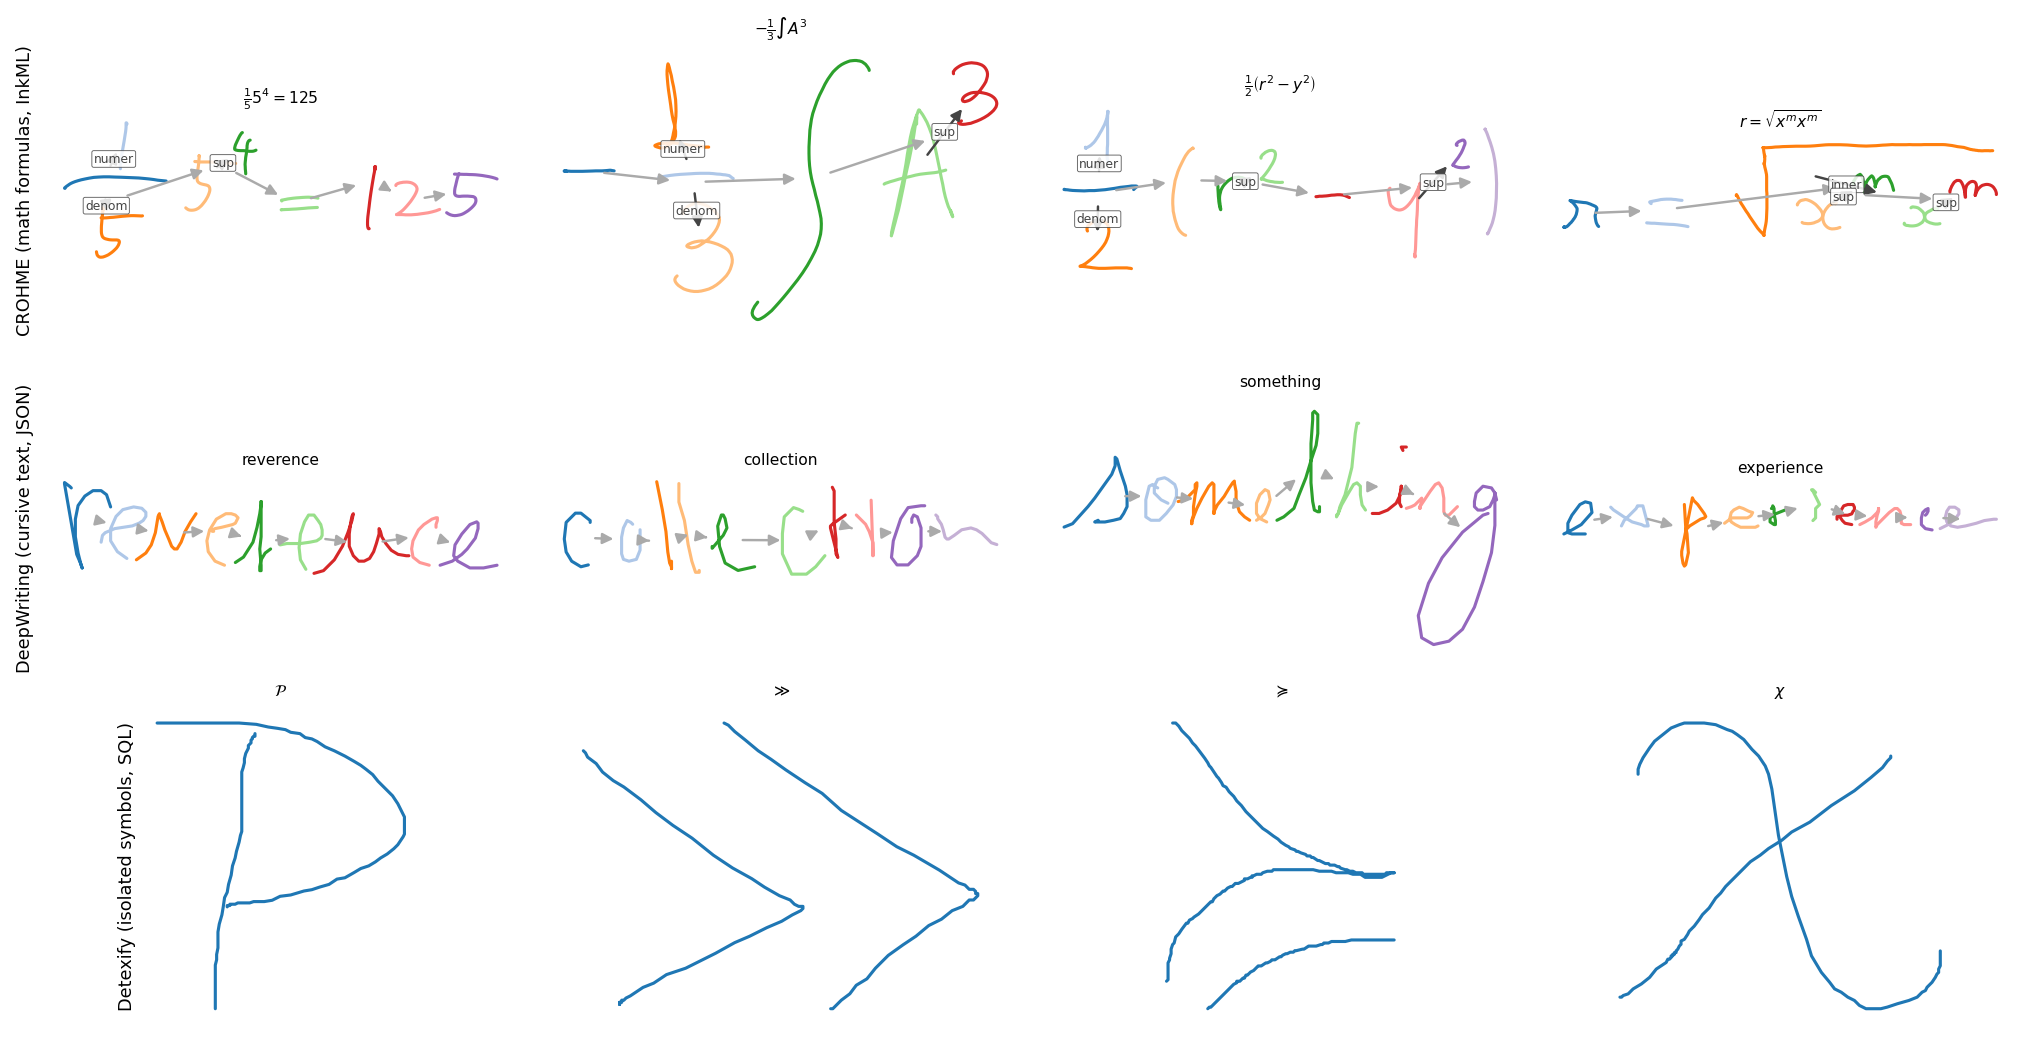
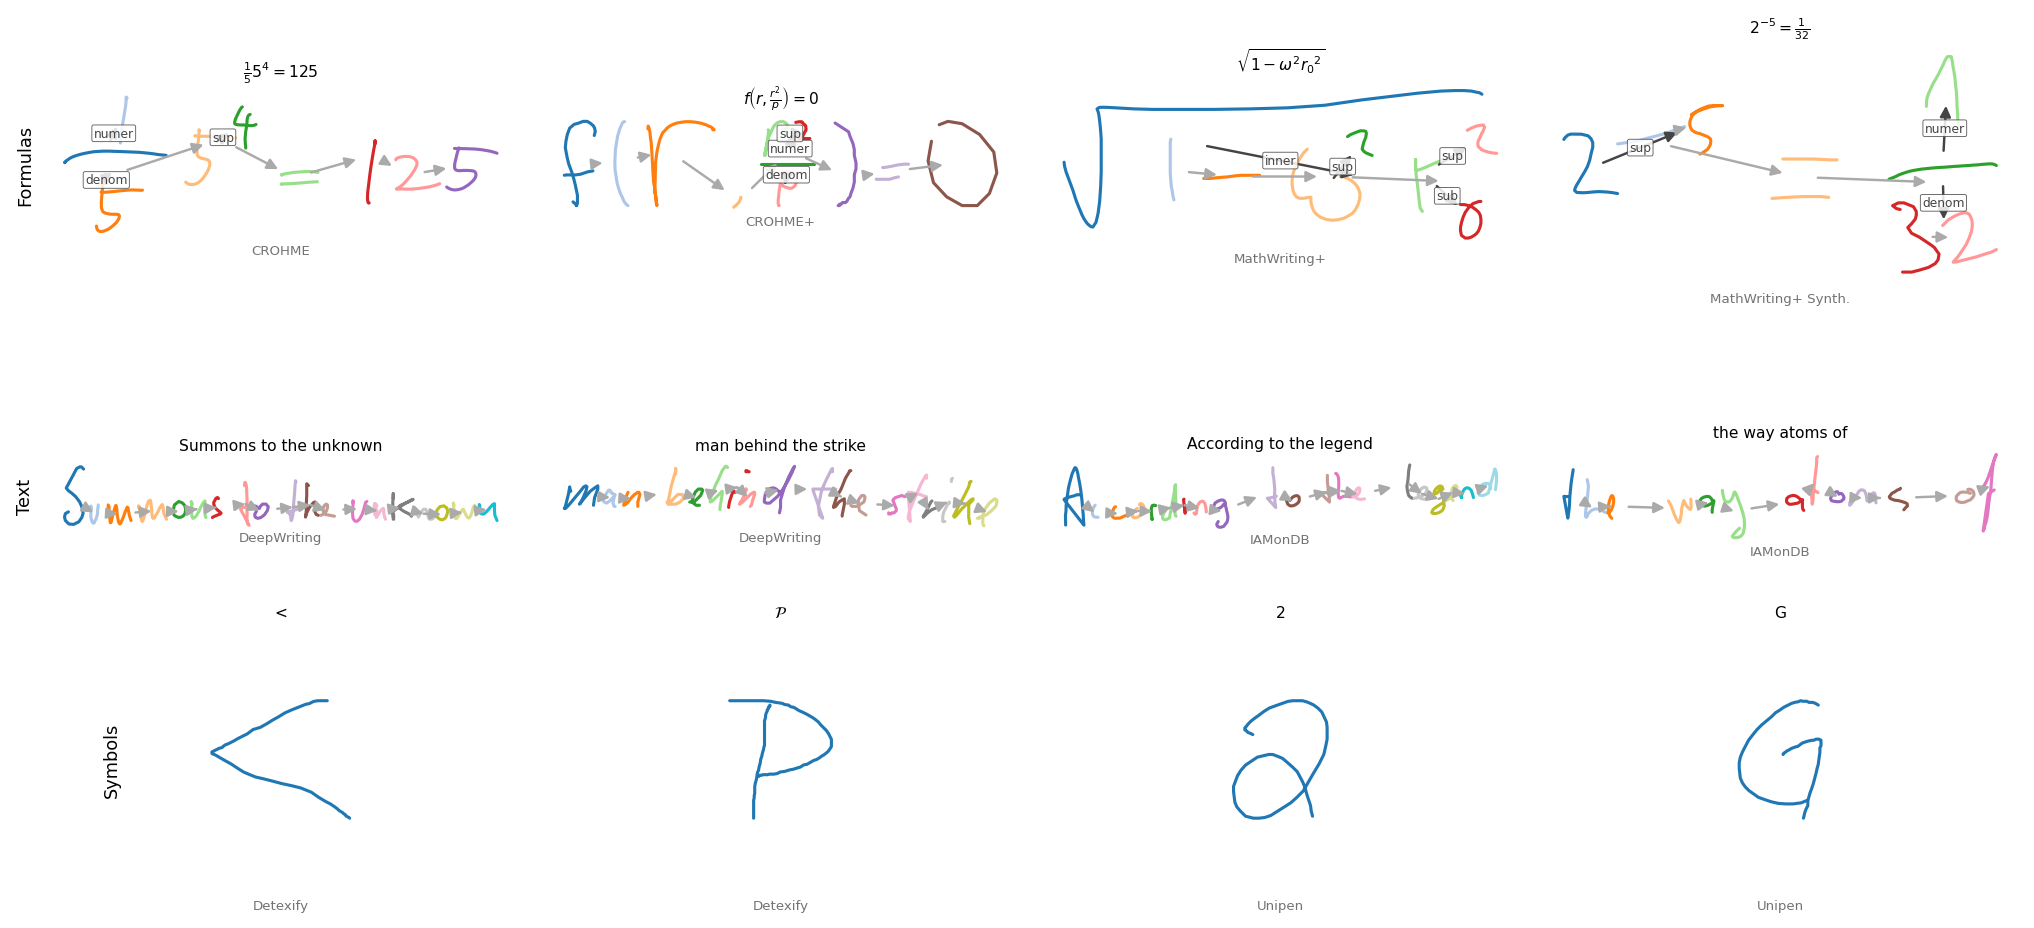
Redesign showcase: rows by content type, 8 datasets, natural symbol scale

diff --git a/scripts/make_showcase.py b/scripts/make_showcase.py
@@ -1,11 +1,14 @@
 """
 Generate the InkTree showcase figure: segmentation colors + relation arrows
-across three very different source datasets (CROHME formulas, DeepWriting
-sentences, Detexify symbols) to illustrate format generality.
+across content types and source datasets, to illustrate format generality.
+
+Row 1: math formulas  (CROHME, CROHME+, MathWriting+, MathWriting+ Synthetic)
+Row 2: text sentences (DeepWriting, IAMonDB)
+Row 3: symbols        (Detexify, Unipen)
 
 Outputs:
     assets/showcase.png        (for README, committed)
-    paper/fig/showcase.pdf     (for the paper)
+    paper/figures/showcase.pdf (for the paper)
 
 Usage (from project root):
     python scripts/make_showcase.py
@@ -25,14 +28,7 @@ import matplotlib.pyplot as plt
 
 from inktree.decode import decode_graph_sample
 from scripts.review_inktree import plot_sample_relations, effective_label, INKTREE_DIR
-
-
-def clean_detexify_label(key: str) -> str:
-    """'amssymb-OT1-_gg' → '\\gg', 'latex2e-OT1-[' → '['."""
-    tail = key.rsplit("-", 1)[-1]
-    label = "\\" + tail[1:] if tail.startswith("_") else tail
-    # text-mode commands mathtext cannot render → math-mode equivalent
-    return {"\\textchi": "\\chi"}.get(label, label)
+from datasets.json_loader import get_json_files, _sample_to_row_node
 
 ASSETS_OUT = ROOT / "assets" / "showcase.png"
 PAPER_OUT = ROOT / "paper" / "figures" / "showcase.pdf"
@@ -40,17 +36,63 @@ PAPER_OUT = ROOT / "paper" / "figures" / "showcase.pdf"
 N_COLS = 4
 
 
-def load_samples(filename: str, indices: list[int]):
-    """Load specific sample indices (sorted single pass) from a JSONL.gz file."""
-    wanted = set(indices)
-    found = {}
+def clean_detexify_label(key: str) -> str:
+    """'amssymb-OT1-_gg' → '\\gg', 'latex2e-OT1-[' → '['."""
+    tail = key.rsplit("-", 1)[-1]
+    label = "\\" + tail[1:] if tail.startswith("_") else tail
+    # text-mode commands mathtext cannot render → math-mode equivalent
+    return {"\\textchi": "\\chi", "\\textless": "<", "\\textgreater": ">"}.get(label, label)
+
+
+def recover_sentences(root_dir: Path, indices: set[int]) -> dict[int, str]:
+    """Reconstruct sentence text (with spaces) from the source JSON word labels.
+
+    The converted DeepWriting/IAMonDB files have empty top-level labels and no
+    word boundaries (chars are flattened into one row), so joining sym labels
+    loses the spaces. The source `wholeword_segments[].ocr_label` entries are
+    per word; walking the files in loader order recovers the i-th sentence.
+    """
+    sentences: dict[int, str] = {}
+    i = 0
+    for json_path in get_json_files(root_dir):
+        try:
+            obj = json.load(open(json_path, encoding="utf-8"))
+        except Exception:
+            continue
+        keys = sorted(
+            [k for k in obj if k.startswith("sample")],
+            key=lambda k: int(k[6:]) if k[6:].isdigit() else 0,
+        )
+        for key in keys:
+            sample = obj[key]
+            if not isinstance(sample, dict):
+                continue
+            try:
+                row = _sample_to_row_node(sample)
+            except Exception:
+                row = None
+            if row is None:
+                continue
+            if i in indices:
+                words = [
+                    w.get("ocr_label", "") or ""
+                    for w in sample.get("wholeword_segments", [])
+                    if isinstance(w, dict)
+                ]
+                sentences[i] = " ".join(w for w in words if w).strip()
+                if len(sentences) == len(indices):
+                    return sentences
+            i += 1
+    return sentences
+
+
+def load_sample(filename: str, index: int):
+    """Load one sample by line index from a JSONL.gz file."""
     with gzip.open(INKTREE_DIR / filename, "rt", encoding="utf-8") as f:
         for i, line in enumerate(f):
-            if i in wanted:
-                found[i] = json.loads(line)
-                if len(found) == len(wanted):
-                    break
-    return [found[i] for i in indices]
+            if i == index:
+                return json.loads(line)
+    raise IndexError(f"{filename}: index {index} out of range")
 
 
 def find_structured_crohme(filename: str, n: int, max_strokes: int = 14) -> list[int]:
@@ -66,45 +108,55 @@ def find_structured_crohme(filename: str, n: int, max_strokes: int = 14) -> list
     return picked
 
 
-def find_short_samples(filename: str, n: int, min_strokes: int, max_strokes: int,
-                       max_chars: int = None) -> list[int]:
-    """Pick samples within a stroke-count range (keeps panels readable).
-    max_chars additionally limits the symbol count (e.g. single words)."""
-    picked = []
-    with gzip.open(INKTREE_DIR / filename, "rt", encoding="utf-8") as f:
-        for i, line in enumerate(f):
-            if not (min_strokes <= line.count('"x"') <= max_strokes):
-                continue
-            if max_chars is not None and line.count('"label"') - 1 > max_chars:
-                continue
-            picked.append(i)
-            if len(picked) == n:
-                break
-    return picked
-
-
 def main():
+    # Sentence labels recovered from the source JSON (converted files lack them)
+    dw_sent = recover_sentences(ROOT / "data" / "Deepwriting Dataset", {0, 50})
+    iam_sent = recover_sentences(ROOT / "data" / "Iamondb Dataset", {65, 98})
+
+    # Panel spec: (dataset tag, filename, sample index, label override/cleaner, axis margin)
+    # Formula indices were hand-picked from find_structured_crohme() candidates.
     rows = [
-        ("CROHME (math formulas, InkML)", "crohme_2023test.inktree.jsonl.gz",
-         find_structured_crohme("crohme_2023test.inktree.jsonl.gz", N_COLS), None),
-        # hand-picked single-word samples (multi-word labels concatenate without
-        # spaces because the converted files have no top-level label)
-        ("DeepWriting (cursive text, JSON)", "deepwriting.inktree.jsonl.gz",
-         [11, 209, 846, 1441], None),
-        ("Detexify (isolated symbols, SQL)", "detexify.inktree.jsonl.gz",
-         find_short_samples("detexify.inktree.jsonl.gz", N_COLS, 2, 4), clean_detexify_label),
+        ("Formulas", [
+            ("CROHME", "crohme_2023test.inktree.jsonl.gz", 65, None),
+            ("CROHME+", "crohmeplus_synthetic.inktree.jsonl.gz", 249, None),
+            ("MathWriting+", "mwplus_test.inktree.jsonl.gz", 15, None),
+            ("MathWriting+ Synth.", "mwplus_synthetic.inktree.jsonl.gz", 99, None),
+        ], 0.05),
+        ("Text", [
+            ("DeepWriting", "deepwriting.inktree.jsonl.gz", 0, dw_sent.get(0)),
+            ("DeepWriting", "deepwriting.inktree.jsonl.gz", 50, dw_sent.get(50)),
+            ("IAMonDB", "iamondb.inktree.jsonl.gz", 65, iam_sent.get(65)),
+            ("IAMonDB", "iamondb.inktree.jsonl.gz", 98, iam_sent.get(98)),
+        ], 0.05),
+        ("Symbols", [
+            ("Detexify", "detexify.inktree.jsonl.gz", 0, clean_detexify_label),
+            ("Detexify", "detexify.inktree.jsonl.gz", 1, clean_detexify_label),
+            ("Unipen", "unipen.inktree.jsonl.gz", 1, None),
+            ("Unipen", "unipen.inktree.jsonl.gz", 4801, None),
+        ], 0.6),  # extra margin so single symbols don't fill the panel
     ]
 
-    fig, axes = plt.subplots(len(rows), N_COLS, figsize=(N_COLS * 3.2, len(rows) * 2.2))
+    fig, axes = plt.subplots(
+        len(rows), N_COLS,
+        figsize=(N_COLS * 3.2, 6.2),
+        gridspec_kw={"height_ratios": [1.3, 0.85, 0.85]},
+    )
 
-    for r, (row_title, filename, indices, label_fn) in enumerate(rows):
-        samples = load_samples(filename, indices)
-        for c, sample in enumerate(samples):
+    for r, (row_title, panels, margin) in enumerate(rows):
+        for c, (tag, filename, index, label_spec) in enumerate(panels):
+            ax = axes[r][c]
+            sample = load_sample(filename, index)
             graph, label = decode_graph_sample(sample)
-            label = effective_label(graph, label)
-            if label_fn is not None:
-                label = label_fn(label)
-            plot_sample_relations(graph, label, axes[r][c], fontsize=7)
+            if callable(label_spec):
+                label = label_spec(effective_label(graph, label))
+            elif label_spec:
+                label = label_spec
+            else:
+                label = effective_label(graph, label)
+            plot_sample_relations(graph, label, ax, fontsize=7)
+            ax.margins(margin)
+            ax.text(0.5, -0.04, tag, transform=ax.transAxes,
+                    fontsize=6, color="0.45", ha="center", va="top")
         axes[r][0].set_ylabel(row_title, fontsize=8)
         axes[r][0].axis("on")
         axes[r][0].set_xticks([])

diff --git a/README.md b/README.md
@@ -6,7 +6,7 @@ Reference implementation for the ICDAR 2026 paper. InkTree is a lightweight, ML-
 
 ![InkTree showcase: segmentation and relations across heterogeneous sources](assets/showcase.png)
 
-*Converted InkTree samples from three structurally different source formats — CROHME formulas (InkML), DeepWriting cursive words (JSON), Detexify symbols (SQL dump). Colors distinguish trace groups (segmentation); labeled dark arrows show semantic relations (`numer`, `denom`, `sup`, `inner`, ...); light gray arrows show reading order within rows. Generated with `scripts/make_showcase.py`.*
+*Converted InkTree samples across content types and source formats — math formulas (CROHME, CROHME+, MathWriting+; InkML), text lines (DeepWriting, IAMonDB; JSON), isolated symbols (Detexify; SQL dump / Unipen; .tgz archive). Colors distinguish trace groups (segmentation); labeled dark arrows show semantic relations (`numer`, `denom`, `sup`, `inner`, ...); light gray arrows show reading order within rows. Generated with `scripts/make_showcase.py`.*
 
 ---
 
